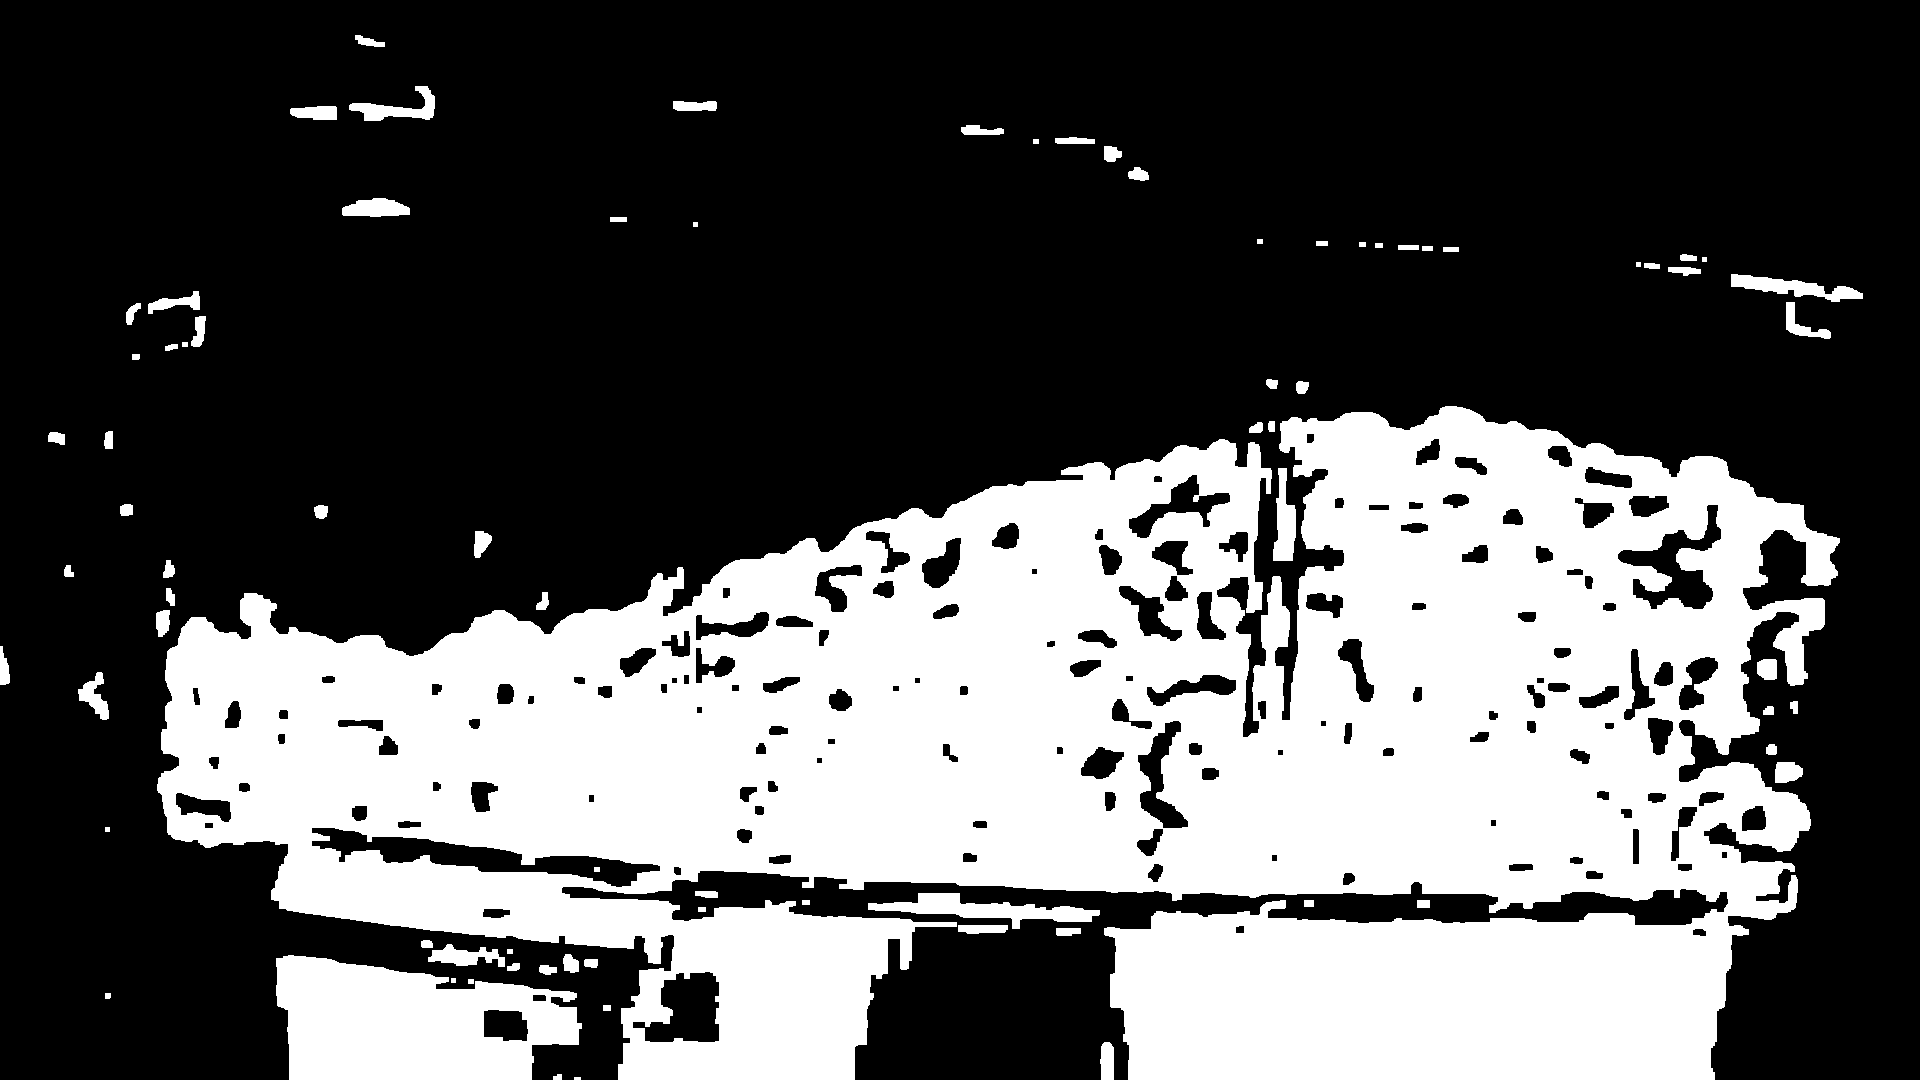
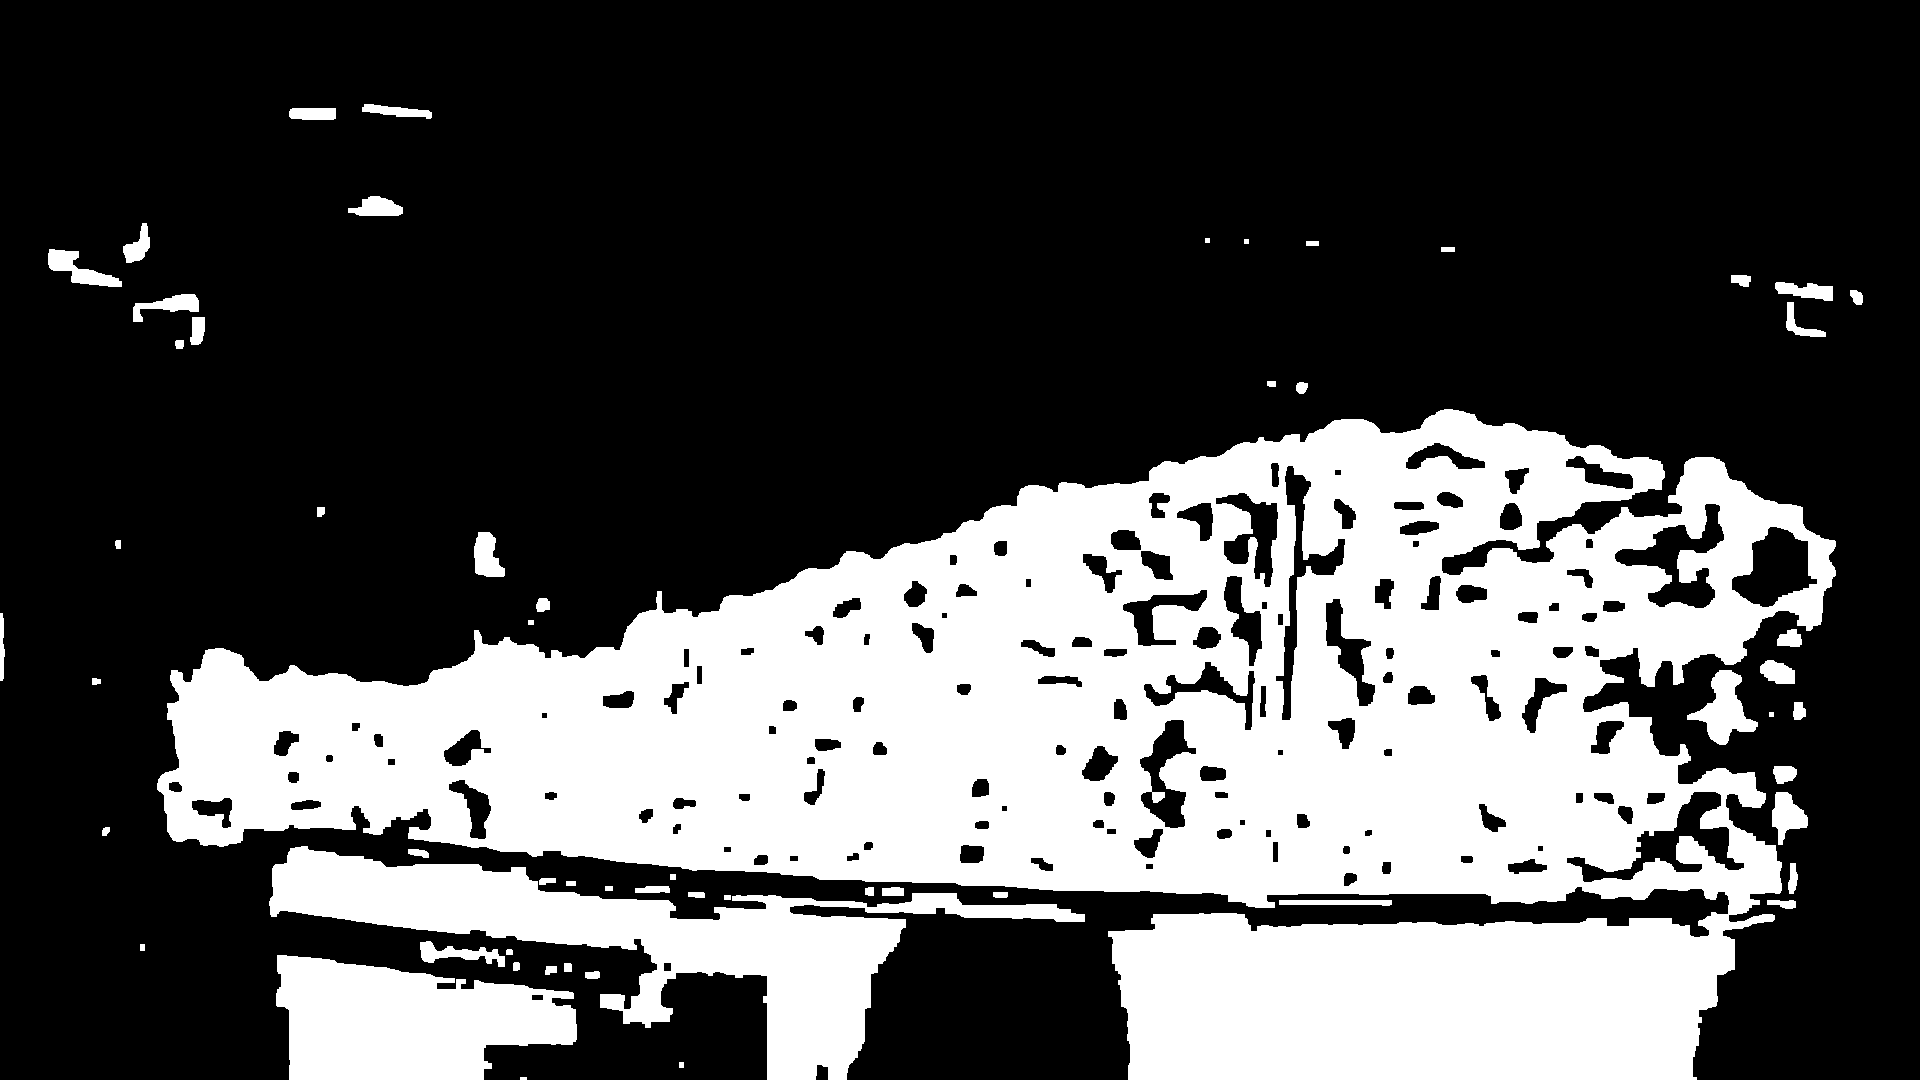
UPDATED-ROBOT-1-START

diff --git a/services/robot_container/ros_ws/src/OrbbecSDK_ROS2/orbbec_camera/src/ob_camera_node.cpp b/services/robot_container/ros_ws/src/OrbbecSDK_ROS2/orbbec_camera/src/ob_camera_node.cpp
@@ -422,6 +422,15 @@ void OBCameraNode::setupDevices() {
       TRY_TO_SET_PROPERTY(setIntProperty, OB_PROP_COLOR_WHITE_BALANCE_INT, color_white_balance_);
     }
   }
+  if (device_->isPropertySupported(OB_PROP_COLOR_AUTO_EXPOSURE_PRIORITY_INT, OB_PERMISSION_WRITE)) {
+    RCLCPP_INFO_STREAM(logger_, "Setting color auto exposure priority to "
+                                    << (enable_color_auto_exposure_priority_ ? "true" : "false"));
+    TRY_TO_SET_PROPERTY(setBoolProperty, OB_PROP_COLOR_AUTO_EXPOSURE_PRIORITY_INT,
+                        enable_color_auto_exposure_priority_);
+    RCLCPP_INFO_STREAM(logger_,
+                       "color auto exposure priority is set to "
+                           << device_->getBoolProperty(OB_PROP_COLOR_AUTO_EXPOSURE_PRIORITY_INT));
+  }
   if (device_->isPropertySupported(OB_PROP_COLOR_AUTO_EXPOSURE_BOOL, OB_PERMISSION_WRITE)) {
     RCLCPP_INFO_STREAM(
         logger_, "Setting color auto exposure to " << (enable_color_auto_exposure_ ? "ON" : "OFF"));
@@ -1119,6 +1128,8 @@ void OBCameraNode::getParameters() {
     enable_depth_filter_ = true;
   }
   setAndGetNodeParameter(enable_frame_sync_, "enable_frame_sync", false);
+  setAndGetNodeParameter<bool>(enable_color_auto_exposure_priority_,
+                               "enable_color_auto_exposure_priority", false);
   setAndGetNodeParameter(enable_color_auto_exposure_, "enable_color_auto_exposure", true);
   setAndGetNodeParameter(enable_color_auto_white_balance_, "enable_color_auto_white_balance", true);
   setAndGetNodeParameter<int>(color_rotation_, "color_rotation", -1);

diff --git a/services/robot_container/ros_ws/src/OrbbecSDK_ROS2/orbbec_camera/launch/gemini_330_series.launch.py b/services/robot_container/ros_ws/src/OrbbecSDK_ROS2/orbbec_camera/launch/gemini_330_series.launch.py
@@ -70,6 +70,7 @@ def generate_launch_description():
         DeclareLaunchArgument('color_camera_info_qos', default_value='default'),
         DeclareLaunchArgument('color_rotation', default_value='0'),#color rotation degree : 0, 90, 180, 270
         DeclareLaunchArgument('enable_color_auto_exposure', default_value='true'),
+        DeclareLaunchArgument('enable_color_auto_exposure_priority', default_value='false'),
         DeclareLaunchArgument('color_exposure', default_value='-1'),
         DeclareLaunchArgument('color_gain', default_value='-1'),
         DeclareLaunchArgument('enable_color_auto_white_balance', default_value='true'),

diff --git a/services/robot_container/ros_ws/src/OrbbecSDK_ROS2/orbbec_camera/launch/dabai.launch.py b/services/robot_container/ros_ws/src/OrbbecSDK_ROS2/orbbec_camera/launch/dabai.launch.py
@@ -33,6 +33,7 @@ def generate_launch_description():
         DeclareLaunchArgument('color_qos', default_value='default'),
         DeclareLaunchArgument('color_camera_info_qos', default_value='default'),
         DeclareLaunchArgument('enable_color_auto_exposure', default_value='true'),
+        DeclareLaunchArgument('enable_color_auto_exposure_priority', default_value='false'),
         DeclareLaunchArgument('color_exposure', default_value='-1'),
         DeclareLaunchArgument('color_gain', default_value='-1'),
         DeclareLaunchArgument('enable_color_auto_white_balance', default_value='true'),

diff --git a/services/robot_container/ros_ws/src/OrbbecSDK_ROS2/orbbec_camera/launch/dabai_dcl.py b/services/robot_container/ros_ws/src/OrbbecSDK_ROS2/orbbec_camera/launch/dabai_dcl.py
@@ -33,6 +33,7 @@ def generate_launch_description():
         DeclareLaunchArgument('color_qos', default_value='default'),
         DeclareLaunchArgument('color_camera_info_qos', default_value='default'),
         DeclareLaunchArgument('enable_color_auto_exposure', default_value='true'),
+        DeclareLaunchArgument('enable_color_auto_exposure_priority', default_value='false'),
         DeclareLaunchArgument('color_exposure', default_value='-1'),
         DeclareLaunchArgument('color_gain', default_value='-1'),
         DeclareLaunchArgument('enable_color_auto_white_balance', default_value='true'),

diff --git a/services/robot_container/ros_ws/src/OrbbecSDK_ROS2/orbbec_camera/launch/dabai_dcw.launch.py b/services/robot_container/ros_ws/src/OrbbecSDK_ROS2/orbbec_camera/launch/dabai_dcw.launch.py
@@ -33,6 +33,7 @@ def generate_launch_description():
         DeclareLaunchArgument('color_qos', default_value='default'),
         DeclareLaunchArgument('color_camera_info_qos', default_value='default'),
         DeclareLaunchArgument('enable_color_auto_exposure', default_value='true'),
+        DeclareLaunchArgument('enable_color_auto_exposure_priority', default_value='false'),
         DeclareLaunchArgument('color_exposure', default_value='-1'),
         DeclareLaunchArgument('color_gain', default_value='-1'),
         DeclareLaunchArgument('enable_color_auto_white_balance', default_value='true'),

diff --git a/services/robot_container/ros_ws/src/OrbbecSDK_ROS2/orbbec_camera/launch/dabai_dcw2.launch.py b/services/robot_container/ros_ws/src/OrbbecSDK_ROS2/orbbec_camera/launch/dabai_dcw2.launch.py
@@ -33,6 +33,7 @@ def generate_launch_description():
         DeclareLaunchArgument('color_qos', default_value='default'),
         DeclareLaunchArgument('color_camera_info_qos', default_value='default'),
         DeclareLaunchArgument('enable_color_auto_exposure', default_value='true'),
+        DeclareLaunchArgument('enable_color_auto_exposure_priority', default_value='false'),
         DeclareLaunchArgument('color_exposure', default_value='-1'),
         DeclareLaunchArgument('color_gain', default_value='-1'),
         DeclareLaunchArgument('enable_color_auto_white_balance', default_value='true'),

diff --git a/services/robot_container/ros_ws/src/oms_v1/oms_v1/params.py b/services/robot_container/ros_ws/src/oms_v1/oms_v1/params.py
@@ -31,8 +31,8 @@ VALID_HOME_POSITIONS = ('north', 'north_east', 'east', 'south_east',
 
 # Parameter defaults
 DEFAULT_PORT = 'port_2'
-DEFAULT_CUP_POSITION = 1
-DEFAULT_STAGE = '1'  # Legacy support
+DEFAULT_CUP_POSITION = 4  # Changed from 1 to test parameter passing
+DEFAULT_STAGE = '4'  # Legacy support - changed to match
 DEFAULT_CUP_SIZE = '12oz'
 DEFAULT_DISPENSER = '1'
 DEFAULT_HOME = 'north'

diff --git a/services/robot_container/ros_ws/src/OrbbecSDK_ROS2/orbbec_camera/include/orbbec_camera/ob_camera_node.h b/services/robot_container/ros_ws/src/OrbbecSDK_ROS2/orbbec_camera/include/orbbec_camera/ob_camera_node.h
@@ -465,6 +465,7 @@ class OBCameraNode {
   std::string depth_filter_config_;
   bool enable_depth_filter_ = false;
   bool enable_soft_filter_ = true;
+  bool enable_color_auto_exposure_priority_ = false;
   bool enable_color_auto_exposure_ = true;
   bool enable_color_auto_white_balance_ = true;
   bool enable_ir_auto_exposure_ = true;
